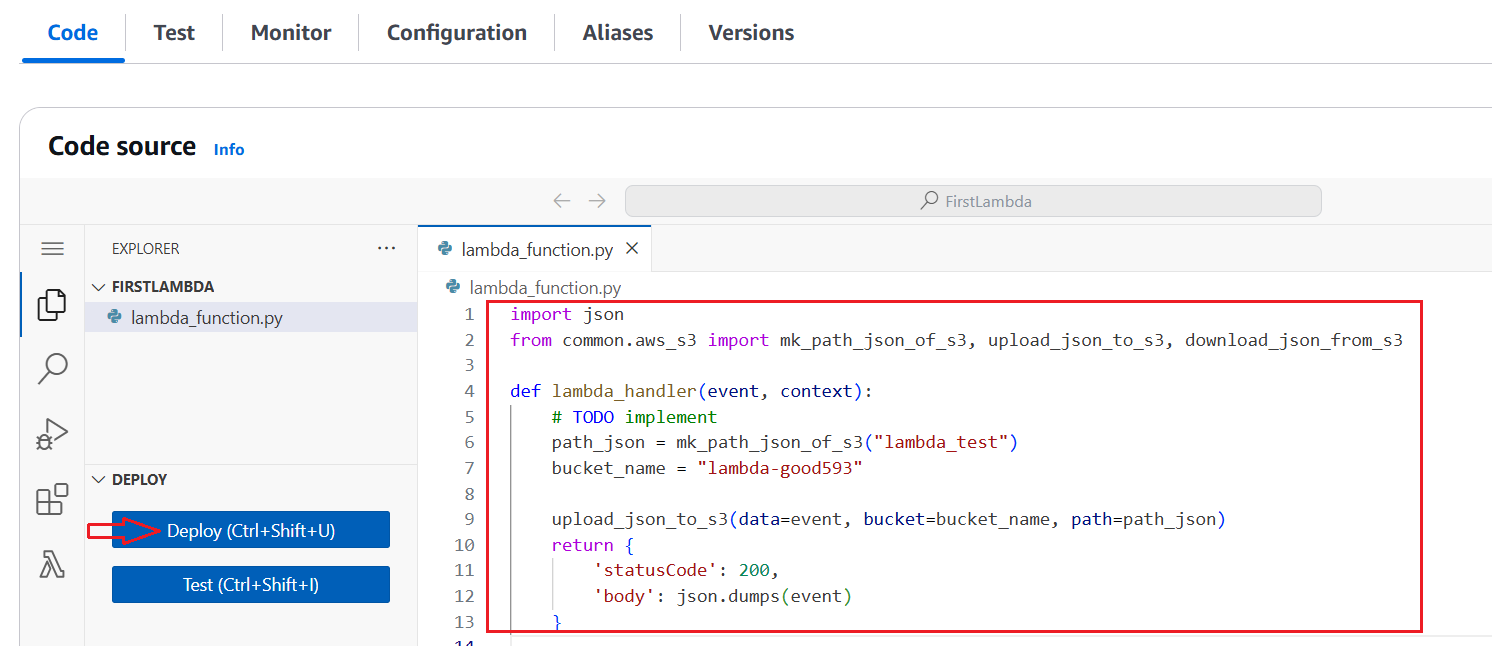
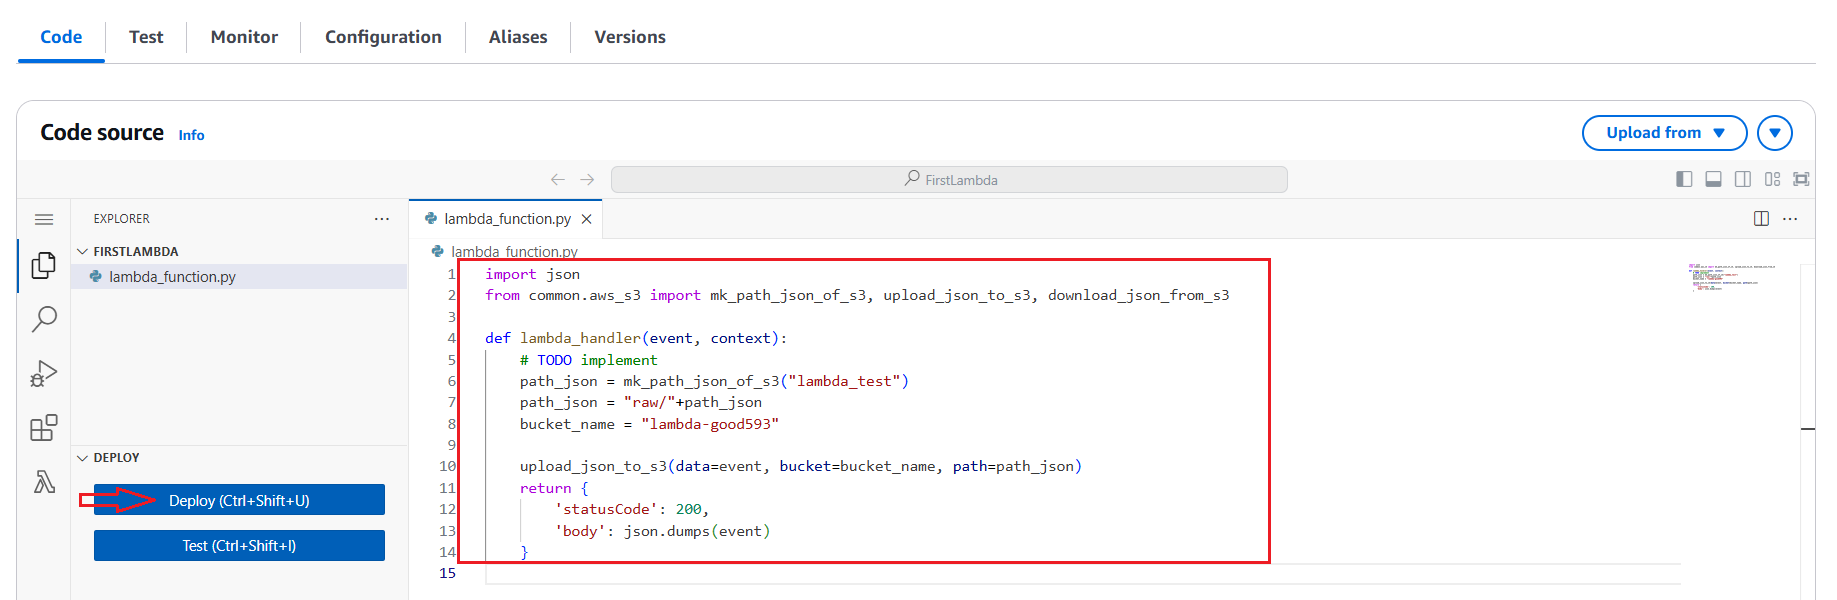
lambda trigger

diff --git a/lambda/2. lambda with Trigger/1. Success lambda 생성.md b/lambda/2. lambda with Trigger/1. Success lambda 생성.md
@@ -1,0 +1,59 @@
+---
+style: |
+  img {
+    display: block;
+    float: none;
+    margin-left: auto;
+    margin-right: auto;
+  }
+marp: true
+paginate: true
+---
+# SuccessLambda 생성 
+
+---
+### 단계1: Create function
+![alt text](./img/image.png)
+
+---
+![alt text](./img/image-1.png)
+
+---
+![alt text](./img/image-2.png)
+
+---
+### 단계2: configuration > Timeout 수정 
+![alt text](./img/image-15.png)
+
+---
+![alt text](./img/image-16.png)
+
+---
+![alt text](./img/image-17.png)
+
+---
+### 단계3: Layer 추가 
+![alt text](./img/image-3.png)
+
+---
+### 단계4: 코드 수정 
+```python
+import json
+from common.aws_s3 import mk_path_json_of_s3, upload_json_to_s3, download_json_from_s3
+
+def lambda_handler(event, context):
+    # TODO implement
+    path_json = mk_path_json_of_s3("lambda_test")
+    path_json = "success/"+path_json
+    bucket_name = "lambda-good593"
+
+    upload_json_to_s3(data=event, bucket=bucket_name, path=path_json)
+    return {
+        'statusCode': 200,
+        'body': json.dumps(event)
+    }
+
+```
+---
+### 단계5: Deploy
+![alt text](./img/image-4.png)

diff --git a/lambda/2. lambda with Trigger/2. lambda with Trigger.md b/lambda/2. lambda with Trigger/2. lambda with Trigger.md
@@ -1,0 +1,53 @@
+---
+style: |
+  img {
+    display: block;
+    float: none;
+    margin-left: auto;
+    margin-right: auto;
+  }
+marp: true
+paginate: true
+---
+# Trigger
+
+---
+### 단계1: add trigger
+![alt text](./img/image-5.png)
+
+---
+### 단계2: Trigger configuration
+![alt text](./img/image-6.png)
+
+---
+![alt text](./img/image-7.png)
+
+---
+![alt text](./img/image-8.png)
+
+---
+![alt text](./img/image-11.png)
+
+---
+### 단계3: S3 > Properties
+![alt text](./img/image-9.png)
+
+---
+### 단계4: S3 > Properties > Event notification 확인 
+![alt text](./img/image-10.png)
+
+---
+# Test
+
+---
+### 단계1: FirstLambda > Test
+![alt text](./img/image-12.png)
+
+---
+### 단계2: S3 > 확인 
+- 1~2분 정도 기다림
+
+![alt text](./img/image-13.png)
+
+---
+![alt text](./img/image-14.png)

diff --git a/lambda/1. lambda basic/2. Layer 추가 및 Lambda 적용하기.md b/lambda/1. lambda basic/2. Layer 추가 및 Lambda 적용하기.md
@@ -137,6 +137,7 @@ from common.aws_s3 import mk_path_json_of_s3, upload_json_to_s3, download_json_f
 def lambda_handler(event, context):
     # TODO implement
     path_json = mk_path_json_of_s3("lambda_test")
+    path_json = "raw/"+path_json
     bucket_name = "생성한 bucket명"
 
     upload_json_to_s3(data=event, bucket=bucket_name, path=path_json)
@@ -159,4 +160,6 @@ def lambda_handler(event, context):
 ### 단계4: 파일 확인 in S3
 ![alt text](./img/image-34.png)
 
+---
+![alt text](./img/image-35.png)
 

diff --git a/lambda/1. lambda basic/1. 콘솔에서 lambda 생성하기.md b/lambda/1. lambda basic/1. 콘솔에서 lambda 생성하기.md
@@ -37,6 +37,11 @@ paginate: true
 ![alt text](./img/image-11.png)
 
 ---
+- Timeout 시간 수정 
+
+![alt text](./img/image-36.png)
+
+---
 ### Execution role
 ![alt text](./img/image-12.png)
 
